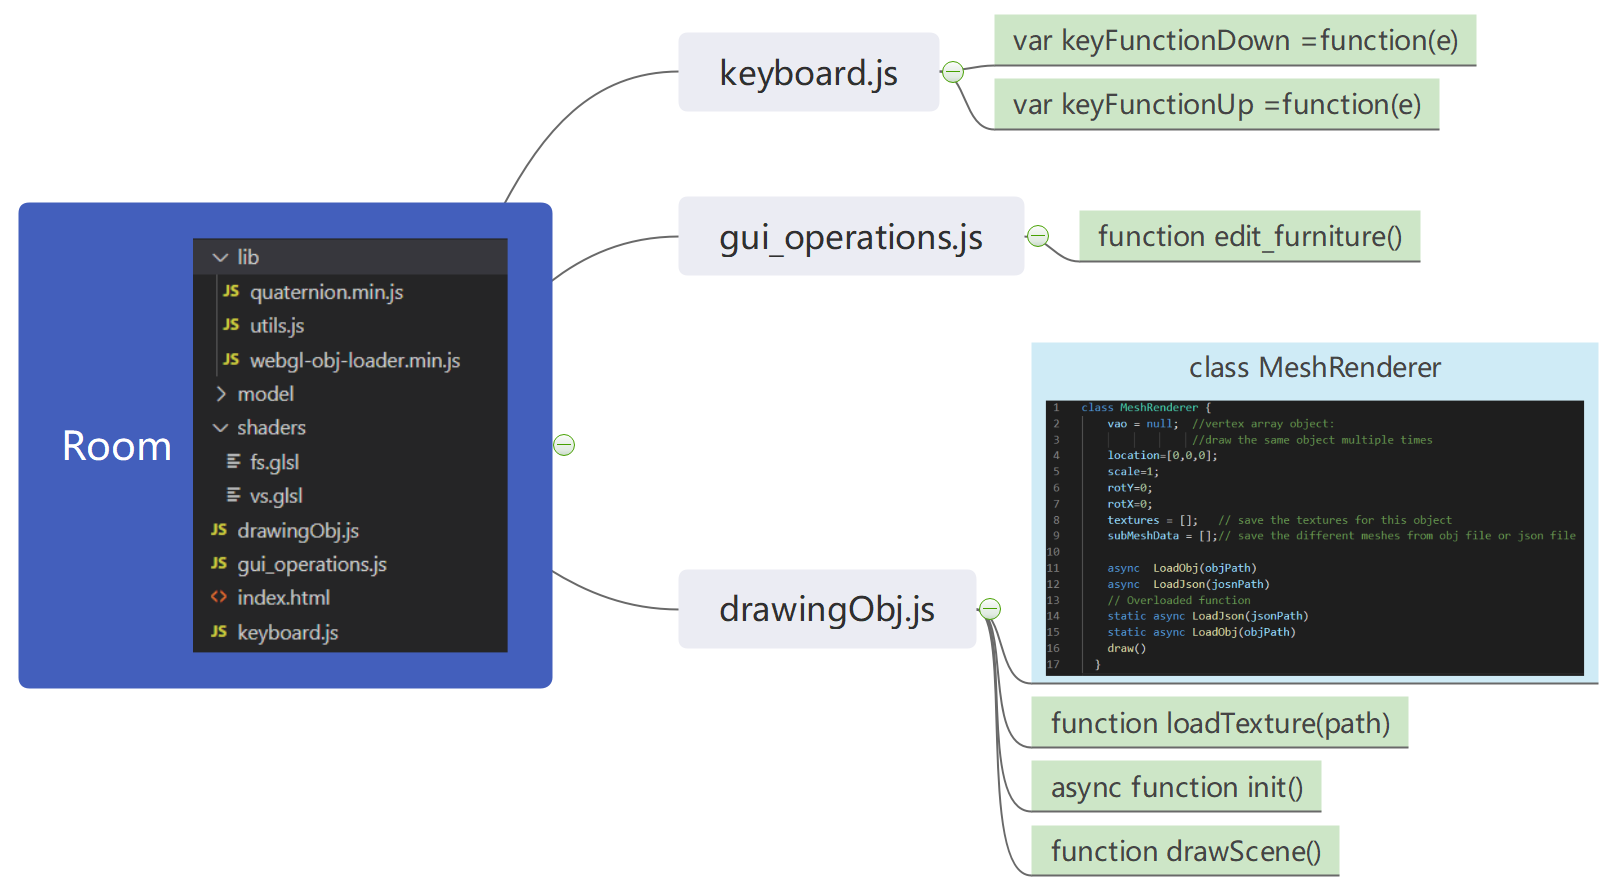
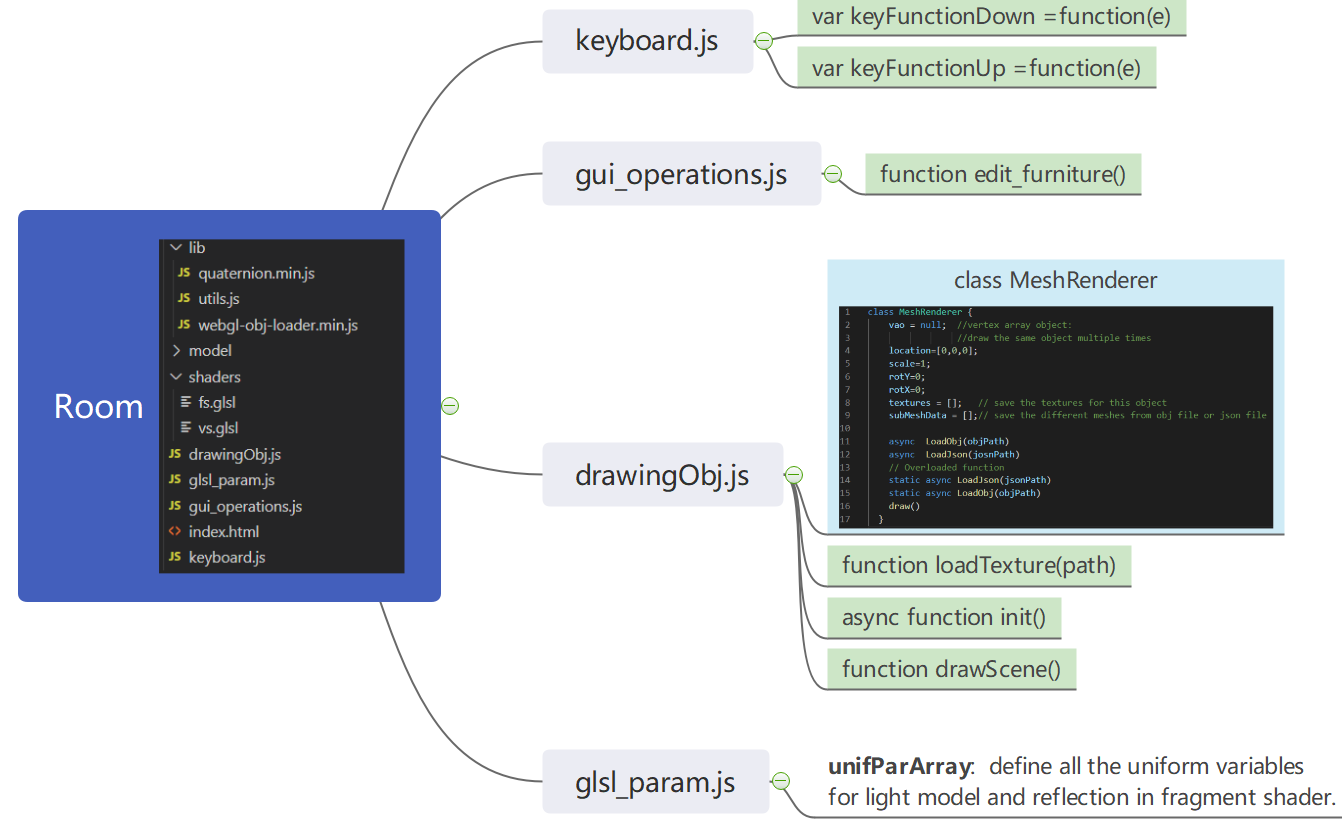
Site updated: 2020-06-30 22:07:22

diff --git a/CGhtml/room/drawingObj.js b/CGhtml/room/drawingObj.js
@@ -1,6 +1,7 @@
 var program;
 var gl;
 var posAttribLoc;
+var normsAttribLoc;
 var uvAttribLoc;
 var texUnifromLoc;
 var MUnifromLoc;
@@ -9,6 +10,9 @@ var VPUnifromLoc;
 
 var perspectiveMatrix;
 var viewMatrix;
+
+
+
 
 var shaderDir;
 var baseDir;
@@ -25,6 +29,7 @@ class MeshRenderer {
 
   textures = [];   // save the textures for this object 
   subMeshData = [];// save the different meshes from obj file or json file
+  normalvec = [];// save the different meshes from obj file or json file
 
   async  LoadObj(objPath) {
     var objStr = await utils.get_objstr(objPath);
@@ -34,13 +39,21 @@ class MeshRenderer {
     var mtls = new OBJ.MaterialLibrary(mtlStr);  //if we have mtl file ,load it.
 
     this.vao = gl.createVertexArray();
-    gl.bindVertexArray(this.vao);    //状态设置函数
+    gl.bindVertexArray(this.vao);   
 
     var positionBuffer = gl.createBuffer();
     gl.bindBuffer(gl.ARRAY_BUFFER, positionBuffer);
     gl.bufferData(gl.ARRAY_BUFFER, new Float32Array(mesh.vertices), gl.STATIC_DRAW);
     gl.vertexAttribPointer(posAttribLoc, 3, gl.FLOAT, false, 0, 0);
-//状态使用
+
+    // console.log(objPath+ " "+ "mesh.vertices length:"+ mesh.vertices.length);
+
+    var normBuffer = gl.createBuffer();
+    gl.bindBuffer(gl.ARRAY_BUFFER, normBuffer);
+    gl.bufferData(gl.ARRAY_BUFFER, new Float32Array(mesh.vertexNormals), gl.STATIC_DRAW);
+    gl.vertexAttribPointer(normsAttribLoc, 3, gl.FLOAT, false, 0, 0);
+
+    // console.log(objPath+ " "+ "mesh.vertexNormals length:"+ mesh.vertexNormals.length);
 
     var uvBuffer = gl.createBuffer();
     gl.bindBuffer(gl.ARRAY_BUFFER, uvBuffer);
@@ -62,16 +75,18 @@ class MeshRenderer {
         texName = "white.png"
       }
 
-      var md = new Map()    
+      var md = new Map()      
       md.start = subMeshIndices.length;
       md.count = indices.length,
       md.texIdx = this.textures.length
       this.subMeshData.push(md)
-
+      this.normalvec.push(md)
       this.textures.push(loadTexture(dir + texName))
 
       subMeshIndices = subMeshIndices.concat(indices)
     }
+    
+    
 
     gl.bufferData(gl.ELEMENT_ARRAY_BUFFER, new Uint16Array(subMeshIndices), gl.STATIC_DRAW);
 
@@ -106,10 +121,12 @@ class MeshRenderer {
       if (texName == "") {
         texName = "white.png"
       }
+
       this.textures.push(loadTexture(dir + texName));
     }
 
     var vertices = []
+    var norms = []
     var uvs = []
     var indices = []
     for (var i=0;i<model.meshes.length;++i)
@@ -120,9 +137,12 @@ class MeshRenderer {
       md.count = m.faces.length*3;
       md.texIdx = m.materialindex;
       this.subMeshData.push(md);
-      var startIndex=vertices.length
+      this.normalvec.push(md)
 
+      var startIndex=vertices.length
       m.vertices.forEach((p)=>{vertices.push(p)})
+      
+      m.normals.forEach((p)=>{norms.push(p)})
       if(m.texturecoords)
       {
         m.texturecoords[0].forEach((u)=>{uvs.push(u)})
@@ -139,6 +159,16 @@ class MeshRenderer {
     gl.bufferData(gl.ARRAY_BUFFER, new Float32Array(vertices), gl.STATIC_DRAW);
     gl.vertexAttribPointer(posAttribLoc, 3, gl.FLOAT, false, 0, 0);
 
+
+    // console.log(josnPath+ "  " + "vertices length:"+vertices.length );
+
+    var normBuffer = gl.createBuffer();
+    gl.bindBuffer(gl.ARRAY_BUFFER, normBuffer);
+    gl.bufferData(gl.ARRAY_BUFFER, new Float32Array(norms), gl.STATIC_DRAW);
+    gl.vertexAttribPointer(normsAttribLoc, 3, gl.FLOAT, false, 0, 0);
+
+    // console.log(josnPath+ "  " + "norms length:"+norms.length );
+
     var uvBuffer = gl.createBuffer();
     gl.bindBuffer(gl.ARRAY_BUFFER, uvBuffer);
     gl.bufferData(gl.ARRAY_BUFFER, new Float32Array(uvs), gl.STATIC_DRAW);
@@ -148,9 +178,11 @@ class MeshRenderer {
     gl.bindBuffer(gl.ELEMENT_ARRAY_BUFFER, indexBuffer);
     gl.bufferData(gl.ELEMENT_ARRAY_BUFFER, new Uint16Array(indices), gl.STATIC_DRAW);
 
+
     gl.bindVertexArray(null);
     gl.bindBuffer(gl.ARRAY_BUFFER, null);
     gl.bindBuffer(gl.ELEMENT_ARRAY_BUFFER, null);
+
   }
 
   // Overloaded function
@@ -159,6 +191,7 @@ class MeshRenderer {
     await mr.LoadJson(jsonPath)
     return mr
   }
+
   static async LoadObj(objPath) {
     var mr=new MeshRenderer()
     await mr.LoadObj(objPath)
@@ -168,7 +201,9 @@ class MeshRenderer {
   draw() {
     gl.bindVertexArray(this.vao)
     gl.enableVertexAttribArray(posAttribLoc);
+    gl.enableVertexAttribArray(normsAttribLoc);
     gl.enableVertexAttribArray(uvAttribLoc);
+    
 
     var T=utils.MakeTranslateMatrix(this.location[0],this.location[1],this.location[2]);
     var S=utils.MakeScaleMatrix(this.scale);
@@ -189,9 +224,12 @@ class MeshRenderer {
     gl.bindVertexArray(null)
     gl.disableVertexAttribArray(posAttribLoc);
     gl.disableVertexAttribArray(uvAttribLoc);
-
+    gl.disableVertexAttribArray(normsAttribLoc);
+    
   }
+
 }
+
 //######################### End: class MeshRenderer #########################
 
 
@@ -244,11 +282,18 @@ async function init() {
     program = utils.createProgram(gl, vertexShader, fragmentShader);
 
     posAttribLoc = gl.getAttribLocation(program, "a_position")
+    normsAttribLoc = gl.getAttribLocation(program, "a_norms")
     uvAttribLoc = gl.getAttribLocation(program, "a_uv")
+    
 
     texUnifromLoc = gl.getUniformLocation(program, "u_texture")
     VPUnifromLoc = gl.getUniformLocation(program, "VP")
     MUnifromLoc = gl.getUniformLocation(program, "M")
+
+    for(var i = 0; i < unifParArray.length; i++) {
+      program[unifParArray[i].pGLSL+"Uniform"] = gl.getUniformLocation(program, unifParArray[i].pGLSL);
+    }
+
   });
 
   meshRenderers.push(await MeshRenderer.LoadJson(baseDir + 'model/bed.json'));
@@ -399,13 +444,19 @@ function drawScene() {
 
 
   gl.uniformMatrix4fv(VPUnifromLoc, gl.FALSE, utils.transposeMatrix(projectionMatrix));
+  gl.uniform3f(program.eyePosUniform, cx, cy, cz);
+  
+  for(var i = 0; i < unifParArray.length; i++) {
+    unifParArray[i].type(gl);
+  }
+
 
   // console.log(selectMeshIdx);
 
-  console.log("c:  "+"["+cx+","+cy+","+cz+","+"]"+"\n" 
-  +" elevation(pitch_x): "+elevation+" angle(yaw_y): "+angle + " roll: "+roll+"\n"
-  +" Oelevation(pitch_x): "+Oelevation+" Oangle(yaw_y): "+ Oangle 
-  )
+  // console.log("c:  "+"["+cx+","+cy+","+cz+","+"]"+"\n" 
+  // +" elevation(pitch_x): "+elevation+" angle(yaw_y): "+angle + " roll: "+roll+"\n"
+  // +" Oelevation(pitch_x): "+Oelevation+" Oangle(yaw_y): "+ Oangle 
+  // )
   meshRenderers.forEach((mr,i)=>{
     gl.uniform1i(gl.getUniformLocation(program,"selected"),i==selectMeshIdx?1:0);
     mr.draw()

diff --git a/CGhtml/room/index.html b/CGhtml/room/index.html
@@ -6,7 +6,8 @@
 
   <script type="text/javascript" src="lib/utils.js"></script> 
   <script type="text/javascript" src="lib/webgl-obj-loader.min.js"></script>
-  <script type="text/javascript" src="lib/quaternion.min.js"></script> 
+  <script type="text/javascript" src="lib/quaternion.min.js"></script>
+  <script type="text/javascript" src="glsl_param.js"></script> 
   <script type="text/javascript" src="keyboard.js"></script>
   <script type="text/javascript" src="gui_operations.js"></script>
   <script type="text/javascript" src="drawingObj.js"></script>
@@ -61,6 +62,61 @@
       </td>		
     </tr>
     </table>
+    <div style="color:brown"><p><b>When you try to move the slider below, you can press the unlock bottom and do not select any element to lock the sreen. </b></p>
+    </div>
+    <!-- <h3>Light model (point lighting)</h3> -->
+    <table>
+      <tr>
+      <td>
+        <h3>Light model (point lighting)</h3>
+      <tr>
+        <td><div id="LA13">light Color</div></td>
+        <td><div id="LA14"><input type="color" id="LAlightColor" value="#ffffff"></div></td>
+      </tr>
+      <tr>
+        <td><div id="LA21">Pos <i>x</i></div></td>
+        <td><div id="LA22"><input type="range" min="-100" max="100" id="LAPosX" value="-36"></div></td>
+        <td><div id="LA23">Decay &beta;</div></td>
+        <td><div id="LA24"><input type="range" min="0" max="2" id="LADecay"  value="1"></div></td>
+      </tr>
+      <tr>
+        <td><div id="LA31">Pos <i>y</i></div></td>
+        <td><div id="LA32"><input type="range" min="-100" max="100" id="LAPosY" value="-26"></div></td>
+        <td><div id="LA33">Targe dist. <i>g</i></div></td>
+        <td><div id="LA34"><input type="range" min="0" max="100" id="LATarget"  value="41"></div></td>
+      </tr>
+      <tr>
+        <td><div id="LA41">Pos <i>z</i></div></td>
+        <td><div id="LA42"><input type="range" min="-100" max="100" id="LAPosZ"  value="-51"></div></td>
+      </tr>
+    </td>
+    <td>
+      <h3> Define the BRDF </h3>
+      <tr>
+        <td><div id="D21">Lambert diffuse</div></td>
+
+        <td><div id="D22"><input type="color" id="diffuseColor" value="#ffae00"></div></td>
+      
+      </tr>
+      <tr>
+        <td><div id="S21">Phong specular</div></td>
+        <td><div id="S22"><input type="color" id="specularColor" value="#ffffff"></div></td>
+        <td><div id="S31">Shiny &gamma;</div></td>
+        <td><div id="S32"><input type="range" min="1" max="200" id="SpecShine"  value="101"></div></td>
+      </tr>
+
+      <tr>
+        <td><div id="A21">Ambient Color</div></td>
+        <td><div id="A22"><input type="color" id="ambientLightColor" value="#222222"></div></td>
+
+        <td><div id="MA1">Ambient MatColor</div></td>
+        <td><div id="MA2"><input type="color" id="ambientMatColor" value="#222222"></div></td>
+
+      </tr>
+    </td>
+  </tr>
+    </table>
+
     <h3>Use the following keys to move the camera</h3>
       <table border="1">
       <tr>

diff --git a/2020/06/28/Computer-Graphics-project-presentation/index.html b/2020/06/28/Computer-Graphics-project-presentation/index.html
@@ -130,7 +130,7 @@
                   
                   &nbsp;<i class="far fa-chart-bar"></i>
                   <span class="post-count">
-                    245 字
+                    309 字
                   </span>&nbsp;
                 
 
@@ -182,7 +182,8 @@
 </ul>
 <p><strong>b. Using mouse</strong><br>When users press right key of the mouse and try to drag the screen, the displacement of the cursor on screen is recorded.<br>And I defined a proper way to compute rotating angle along x and y axis in world space and implement it using <strong>Euler Angle</strong> method.  </p>
 <h3 id="Part-2-Edit-the-pose-and-size-for-each-element"><a href="#Part-2-Edit-the-pose-and-size-for-each-element" class="headerlink" title="Part 2 Edit the pose and size for each element."></a>Part 2 Edit the pose and size for each element.</h3><p>In this case, we should change <strong>world matrix</strong> for each furniture. I designed to use the mouse to adjust the position, rotation angle and size of furnitures.The idea is similar to part 2.b. But note that you need to click the <strong>unlock button</strong> before editing.</p>
-<h2 id="1-2-Result"><a href="#1-2-Result" class="headerlink" title="1.2 Result"></a>1.2 Result</h2><p> <iframe allowtransparency ="no" frameborder =" 1" width =" 870" height ="800" src ="/CGhtml/room/index.html" style="overflow: hidden;overflow-y: scroll; overscroll-behavior-y: contain;"> </iframe> 
+<h3 id="Part-3-Lighting-simulation"><a href="#Part-3-Lighting-simulation" class="headerlink" title="Part 3 Lighting simulation."></a>Part 3 Lighting simulation.</h3><p>When we are buying furniture or designing a room decoration, we may want to see the room under different lighting conditions, such as sunlight simulation. So I added this module. Here I used a <strong>point light</strong> source model, <strong>Lambert  diffuse reflection</strong> and <strong>phong sepecular reflection</strong>, and added ambient light. Users can customize all parameters including colors and light source position.</p>
+<h2 id="1-2-Result"><a href="#1-2-Result" class="headerlink" title="1.2 Result"></a>1.2 Result</h2><p> <iframe allowtransparency ="no" frameborder =" 1" width =" 870" height ="1300" src ="/CGhtml/room/index.html" style="overflow: hidden;overflow-y: scroll; overscroll-behavior-y: contain;"> </iframe> 
 </p>
 
 <h1 id="2-Code-structure"><a href="#2-Code-structure" class="headerlink" title="2 Code structure"></a>2 Code structure</h1><div  align="center">    

diff --git a/CGhtml/room/glsl_param.js b/CGhtml/room/glsl_param.js
@@ -1,0 +1,56 @@
+
+function unifPar(pHTML, pGLSL, type) {
+	this.pHTML = pHTML;
+	this.pGLSL = pGLSL;
+	this.type = type;
+}
+
+function noAutoSet(gl) {
+}
+
+function val(gl) {
+	gl.uniform1f(program[this.pGLSL+"Uniform"], document.getElementById(this.pHTML).value);
+    console.log(this.pHTML+": " + document.getElementById(this.pHTML).value);
+    
+}
+
+function valD10(gl) {
+    gl.uniform1f(program[this.pGLSL+"Uniform"], document.getElementById(this.pHTML).value / 10);
+    console.log(this.pHTML+": " + document.getElementById(this.pHTML).value);
+     
+}
+
+function valCol(gl) {
+    col = document.getElementById(this.pHTML).value.substring(1,7);
+    console.log(this.pHTML+": " + document.getElementById(this.pHTML).value);
+    
+    R = parseInt(col.substring(0,2) ,16) / 255;
+    G = parseInt(col.substring(2,4) ,16) / 255;
+    B = parseInt(col.substring(4,6) ,16) / 255;
+	gl.uniform4f(program[this.pGLSL+"Uniform"], R, G, B, 1);
+}
+
+function valVec3(gl) {
+	gl.uniform3f(program[this.pGLSL+"Uniform"],
+				 document.getElementById(this.pHTML+"X").value / 10,
+				 document.getElementById(this.pHTML+"Y").value / 10,
+                 document.getElementById(this.pHTML+"Z").value / 10);
+    console.log(this.pHTML+"Z: "+ document.getElementById(this.pHTML+"X").value);
+    console.log(this.pHTML+"Z: "+ document.getElementById(this.pHTML+"Y").value);                 
+    console.log(this.pHTML+"Z: "+ document.getElementById(this.pHTML+"Z").value);
+}
+
+
+unifParArray =[
+	new unifPar("LAPos","LAPos", valVec3),
+	new unifPar("LADecay","LADecay", val),
+	new unifPar("LATarget","LATarget", valD10),
+	new unifPar("LAlightColor","LAlightColor", valCol),
+	new unifPar("ambientLightColor","ambientLightColor", valCol),
+	new unifPar("diffuseColor","diffuseColor", valCol),
+	new unifPar("specularColor","specularColor", valCol),
+	new unifPar("SpecShine","SpecShine", val),
+	new unifPar("ambientMatColor","ambientMatColor", valCol),
+    new unifPar("","eyePos", noAutoSet)
+];
+

diff --git a/CGhtml/room/gui_operations.js b/CGhtml/room/gui_operations.js
@@ -12,18 +12,18 @@ function onRadioButtonChange(value){
 }
 
 function onCheckBoxChange(value_lock){
-    console.log("Checkbox value_lock changed to "+value_lock);   //true or flase
+    // console.log("Checkbox value_lock changed to "+value_lock);   //true or flase
     editing_unlock_button = value_lock;
 }
 
 function onDropdownChange(value){
     selectMeshIdx = value;
-    console.log("selectMeshIdx: "+selectMeshIdx);
+    // console.log("selectMeshIdx: "+selectMeshIdx);
 }
 
 function onViewChange(value){
   selectView = value;
-  console.log("selectView: "+selectView);
+  // console.log("selectView: "+selectView);
   if(selectView == 11 ){ 
       cx = -0.525772281081319;
       cy = 1.724524017978642;

diff --git a/CGhtml/A08/models.js b/CGhtml/A08/models.js
@@ -21,7 +21,7 @@ function buildGeometry() {
 
 	// Draws a flat L-shaped pattern (replace the vertices)
 	var vert2 = [
-	[1.0,-1.0,0.0],[1.0,0.0,0.0],[0.0,-1.0,0.0] ,[0.0,0.0,0.0], [-1.0,-1.0,0.0],[-1.0,0.0,0.0],[0.0,0.0,0.0],[-1.0,1.0,0.0], [0.0,1.0,0.0],[-1.0,2.0,0.0],[0.0,2.0,0.0]
+	[1.0,-1.0,0.0], [1.0,0.0,0.0], [-1.0,-1.0,0.0], [0.0,0.0,0.0], [-1.0,2.0,0.0],[0.0,2.0,0.0]
 	];
 
 	addMesh(vert2, "S", [0.0, 0.0, 1.0]);
